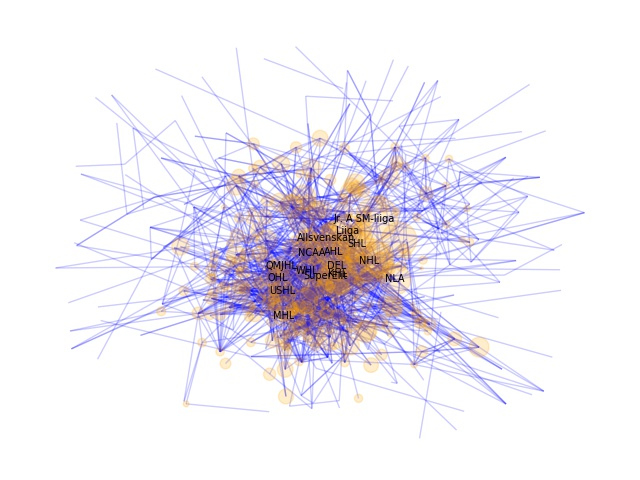
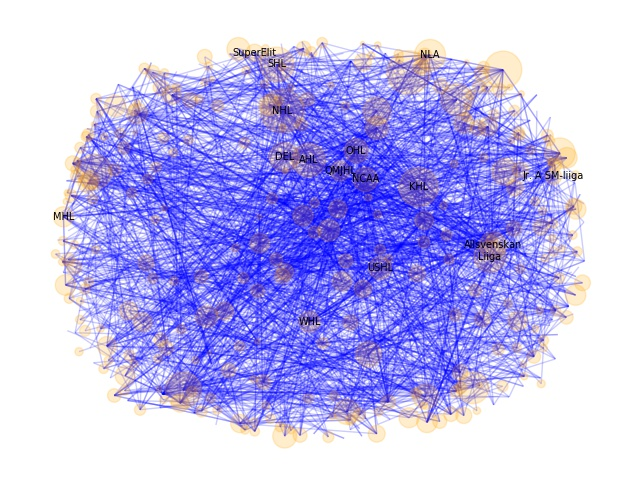
Add files via upload

diff --git a/league_equivalencies.py b/league_equivalencies.py
@@ -68,7 +68,7 @@ def main():
     # plt.figure(3, figsize=(90, 90))
     plt.axis('off')
     plt.subplots_adjust(left=0, right=1, top=1, bottom=0)
-    nx.draw_networkx(G=G, pos=nx.spring_layout(G, k=0.15, iterations=20), node_list=G.nodes(), node_color='orange', node_size=[i * 1000 for i in equivalencies], edge_color='blue', alpha=0.2, arrows=False, font_size=7, labels=labels)
+    nx.draw_networkx(G=G, pos=nx.spring_layout(G, k=0.5, iterations=20), node_list=G.nodes(), node_color='orange', node_size=[i * 1000 for i in equivalencies], edge_color='blue', alpha=0.2, arrows=False, font_size=7, labels=labels)
     plt.savefig('plots/league_equivalencies.jpeg')
 
 
